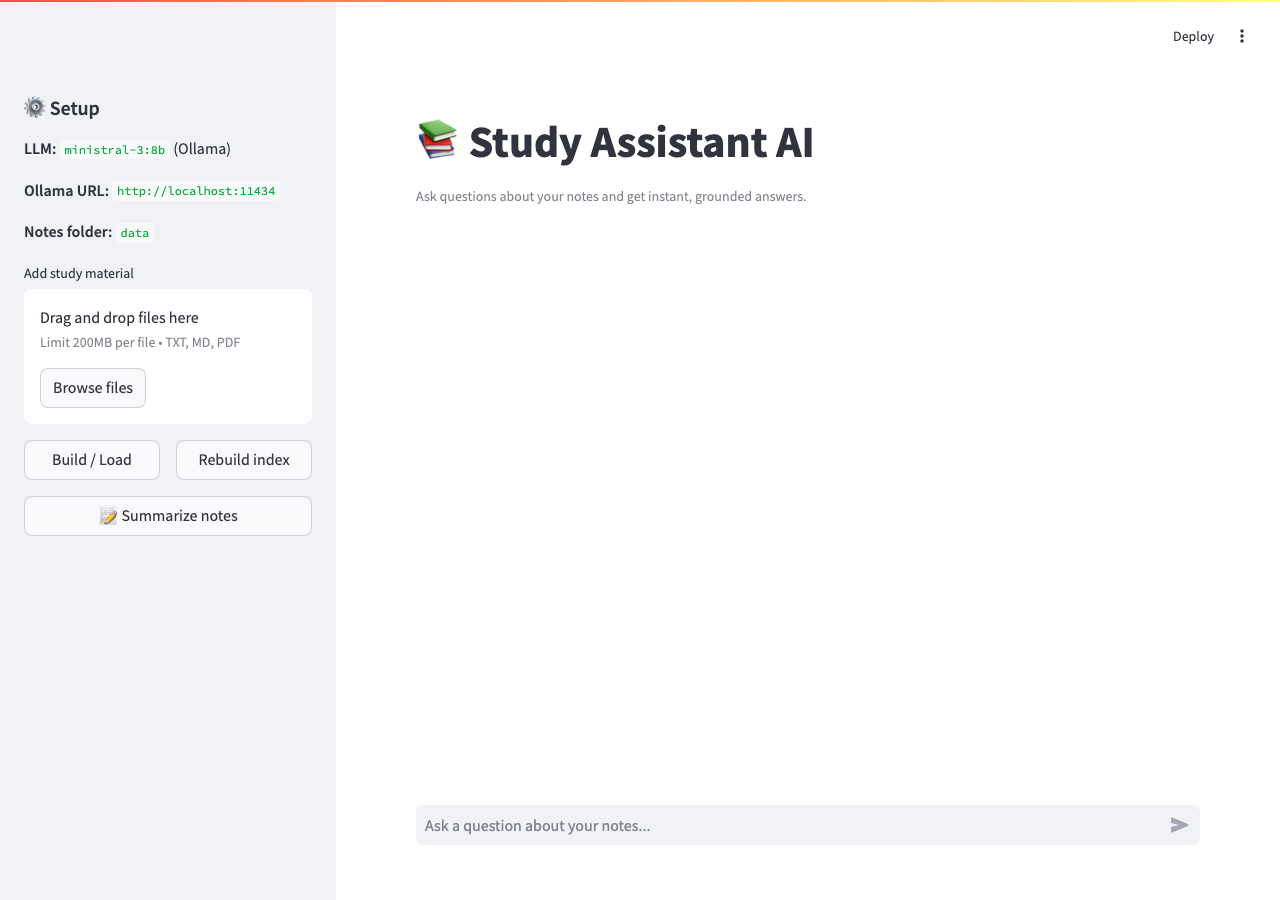
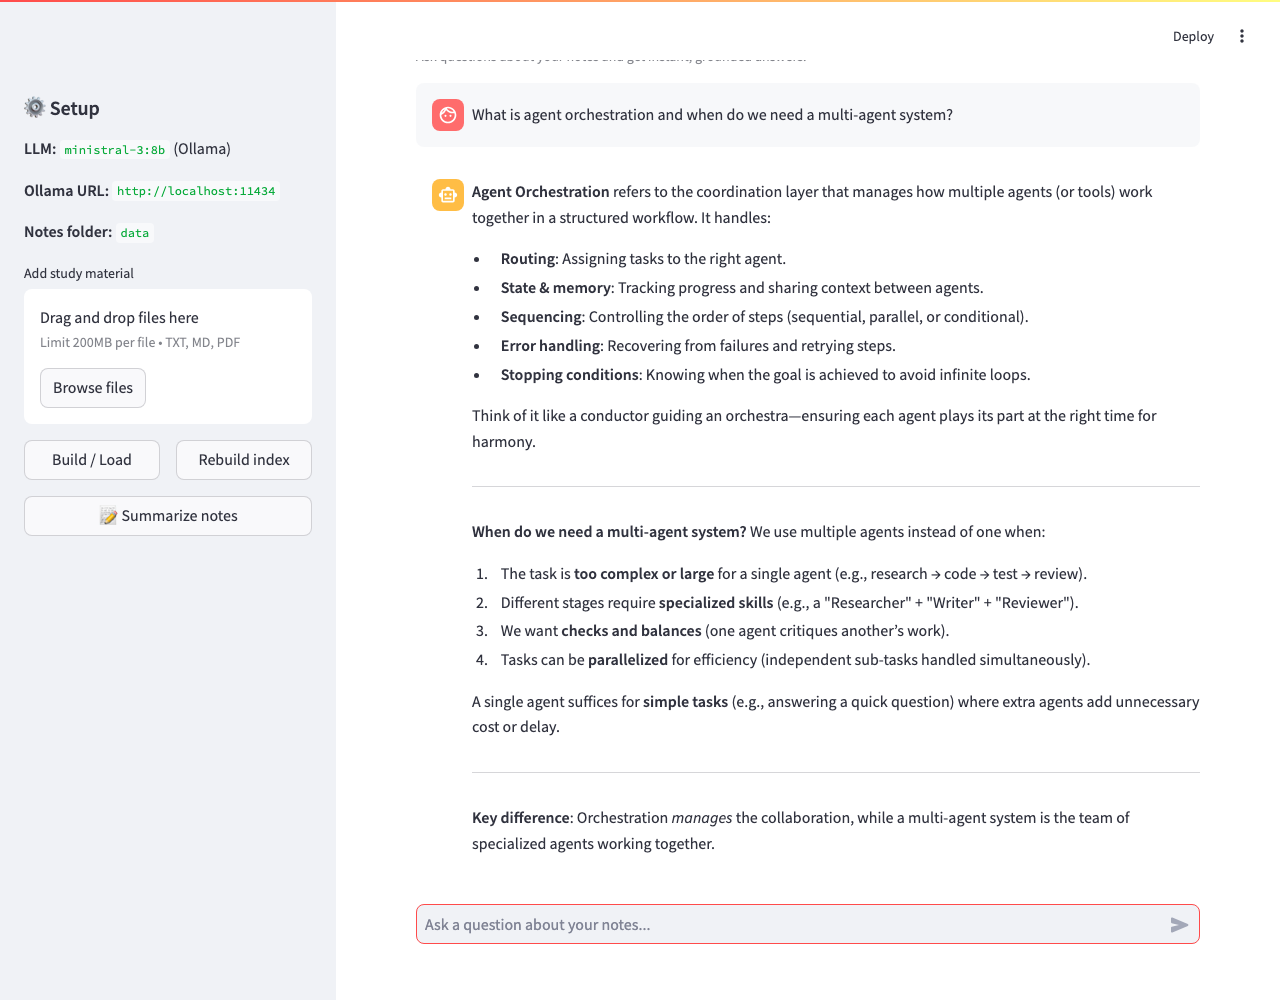
Capture richer demo screenshot with live Q&A

diff --git a/scripts/capture_demo.py b/scripts/capture_demo.py
@@ -1,5 +1,8 @@
 """Capture a screenshot of the running Streamlit app for the README.
 
+It builds the index, asks a sample question, waits for the local model's
+answer, and saves a full-page screenshot showing a real conversation.
+
 Usage (with the app running on http://localhost:8501):
     python scripts/capture_demo.py
 """
@@ -10,16 +13,38 @@ from playwright.sync_api import sync_playwright
 
 URL = "http://localhost:8501"
 OUT = Path(__file__).resolve().parent.parent / "docs" / "demo.png"
+QUESTION = "What is agent orchestration and when do we need a multi-agent system?"
 
 
 def main() -> None:
     OUT.parent.mkdir(parents=True, exist_ok=True)
     with sync_playwright() as p:
         browser = p.chromium.launch()
-        page = browser.new_page(viewport={"width": 1280, "height": 900})
+        page = browser.new_page(viewport={"width": 1280, "height": 1000})
         page.goto(URL, wait_until="networkidle")
-        # Give Streamlit a moment to finish rendering widgets.
         page.wait_for_timeout(3000)
+
+        # Build / load the index first.
+        page.get_by_role("button", name="Build / Load").click()
+        # Wait for the indexing spinner to finish.
+        page.wait_for_timeout(8000)
+
+        # Ask a question in the chat input.
+        chat = page.get_by_placeholder("Ask a question about your notes...")
+        chat.click()
+        chat.fill(QUESTION)
+        chat.press("Enter")
+
+        # Wait for the local LLM to generate the answer (can take a while).
+        try:
+            page.wait_for_selector(
+                'div[data-testid="stChatMessage"]', timeout=120000
+            )
+        except Exception:  # noqa: BLE001
+            pass
+        # Give the model time to finish streaming the full answer.
+        page.wait_for_timeout(20000)
+
         page.screenshot(path=str(OUT), full_page=True)
         browser.close()
     print(f"Saved screenshot to {OUT}")